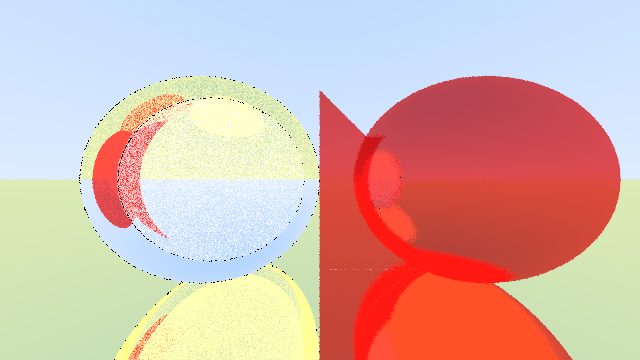
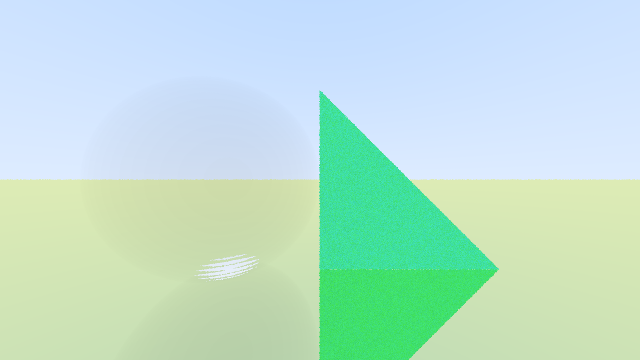
fixed all projects

diff --git a/src/normals.cpp b/src/normals.cpp
@@ -1,18 +1,76 @@
-#include <iostream>
 #include "ppm_image.h"
 #include "AGLM.h"
 #include "ray.h"
+#include "material.h"
+#include "hittable_list.h"
+#include "sphere.h"
+#include "camera.h"
 
 using namespace glm;
 using namespace agl;
-using namespace std;
 
-color ray_color(const ray& ray)
+color ray_color(const ray& r, const hittable_list& world, int depth)
 {
-   return color(0);
+    hit_record rec;
+
+    if (world.hit(r, 0.001f, infinity, rec))
+    {
+        return glm::max(vec3(0), rec.normal);
+    }
+    vec3 unit_direction = normalize(r.direction());
+    auto t = 0.5f * (unit_direction.y + 1.0f);
+    return (1.0f - t) * color(1, 1, 1) + t * color(0.5f, 0.7f, 1.0f);
+}
+
+color normalize_color(const color& c, int samples_per_pixel)
+{
+    // todo: implement me!
+    float scale = 1.0f / samples_per_pixel;
+    float r = std::min(0.999f, std::max(0.0f, c.r * scale));
+    float g = std::min(0.999f, std::max(0.0f, c.g * scale));
+    float b = std::min(0.999f, std::max(0.0f, c.b * scale));
+
+    // apply gamma correction 
+    r = sqrt(r);
+    g = sqrt(g);
+    b = sqrt(b);
+
+    return color(r, g, b);
 }
 
 void ray_trace(ppm_image& image)
 {
-   image.save("normals.png");
+    // Image
+    int height = image.height();
+    int width = image.width();
+    float aspect = (float)width / (float)height;
+
+    // Camera
+    vec3 camera_pos(0);
+    float viewport_height = 2.0f;
+    float focal_length = 1.0;
+    camera cam(camera_pos, viewport_height, aspect, focal_length);
+
+    shared_ptr<material> matte_test = make_shared<matte>(glm::vec3(.1, 1, .5));
+
+    hittable_list world;
+    world.add(make_shared<sphere>(point3(0, 0, -1), 0.5f, matte_test));
+
+    glm::vec3 c1(.9, .9, 1);
+    glm::vec3 c2(.4, .4, 1);
+
+    // Ray trace
+    for (int j = 0; j < height; j++)
+    {
+        for (int i = 0; i < width; i++)
+        {
+            float u = float(i + random_float()) / (width - 1);
+            float v = float(height - j - 1 - random_float()) / (height - 1);
+            ray r = cam.get_ray(u, v);
+            color c = ray_color(r, world, 1);
+            image.set_vec3(j, i, c);
+        }
+    }
+
+    image.save("silhouette.ppm");
 }

diff --git a/src/silhouette.cpp b/src/silhouette.cpp
@@ -1,16 +1,76 @@
 #include "ppm_image.h"
 #include "AGLM.h"
 #include "ray.h"
+#include "material.h"
+#include "hittable_list.h"
+#include "sphere.h"
+#include "camera.h"
 
 using namespace glm;
 using namespace agl;
 
-color ray_color(const ray& ray)
+color ray_color(const ray& r, const hittable_list& world, int depth)
 {
-   return color(0); 
+    hit_record rec;
+
+    if (world.hit(r, 0.001f, infinity, rec))
+    {
+        return color(1, 0, 0);
+    }
+    vec3 unit_direction = normalize(r.direction());
+    auto t = 0.5f * (unit_direction.y + 1.0f);
+    return (1.0f - t) * color(1, 1, 1) + t * color(0.5f, 0.7f, 1.0f);
+}
+
+color normalize_color(const color& c, int samples_per_pixel)
+{
+    // todo: implement me!
+    float scale = 1.0f / samples_per_pixel;
+    float r = std::min(0.999f, std::max(0.0f, c.r * scale));
+    float g = std::min(0.999f, std::max(0.0f, c.g * scale));
+    float b = std::min(0.999f, std::max(0.0f, c.b * scale));
+
+    // apply gamma correction 
+    r = sqrt(r);
+    g = sqrt(g);
+    b = sqrt(b);
+
+    return color(r, g, b);
 }
 
 void ray_trace(ppm_image& image)
 {
-   image.save("silhouette.ppm");
+    // Image
+    int height = image.height();
+    int width = image.width();
+    float aspect = (float)width / (float)height;
+
+    // Camera
+    vec3 camera_pos(0);
+    float viewport_height = 2.0f;
+    float focal_length = 1.0;
+    camera cam(camera_pos, viewport_height, aspect, focal_length);
+
+    shared_ptr<material> matte_test = make_shared<matte>(glm::vec3(.1, 1, .5));
+
+    hittable_list world;
+    world.add(make_shared<sphere>(point3(0, 0, -1), 0.5f, matte_test));
+
+    glm::vec3 c1(.9, .9, 1);
+    glm::vec3 c2(.4, .4, 1);
+
+    // Ray trace
+    for (int j = 0; j < height; j++)
+    {
+        for (int i = 0; i < width; i++)
+        {
+            float u = float(i + random_float()) / (width - 1);
+            float v = float(height - j - 1 - random_float()) / (height - 1);
+            ray r = cam.get_ray(u, v);
+            color c = ray_color(r, world, 1);
+            image.set_vec3(j, i, c);
+        }
+    }
+
+    image.save("silhouette.ppm");
 }

diff --git a/src/sphere.cpp b/src/sphere.cpp
@@ -3,33 +3,30 @@
 bool sphere::hit(const ray& r, hit_record& rec) const 
 {
     glm::vec3 r_orig = r.origin();
-    if (near_zero(glm::length(r.origin() - center) - radius))
-    {
-        r_orig  = r_orig + glm::normalize(r.origin() - center) * .1f;
-    }
-    //float len = glm::length(r.direction());
-    //glm::vec3 d = r.direction() / len;
-    //glm::vec3 el = center - r_orig;
-    //float s = glm::dot(el, d);
-    //float elSqr = glm::dot(el, el);
-    //float rSqr = radius * radius;
-    //float mSqr = elSqr - s * s;
-    //float q = sqrt(rSqr - mSqr);
-    //float t;
-    //if (s < 0 && elSqr > rSqr) t = -1;
-    //else if (mSqr > rSqr) t = -1;
-    //else if (elSqr > rSqr) t = (s - q) / len;
-    //else t = (s + q) / len;
 
-    glm::vec3 oc = r_orig - center;
-    float a = glm::dot(r.direction(), r.direction());
-    float half_b = glm::dot(oc, r.direction());
-    float c = glm::length2(oc) - radius * radius;
-    float discriminant = half_b * half_b - a * c;
-    if (discriminant < 0) return false;
-    float sqrtd = sqrt(discriminant);
-    float t = (-half_b - sqrtd) / a;
-    if (t < 0) t = (-half_b + sqrtd) / a;
+    float len = glm::length(r.direction());
+    glm::vec3 d = r.direction() / len;
+    glm::vec3 el = center - r_orig;
+    float s = glm::dot(el, d);
+    float elSqr = glm::dot(el, el);
+    float rSqr = radius * radius;
+    float mSqr = elSqr - s * s;
+    float q = sqrt(rSqr - mSqr);
+    float t;
+    if (s < 0 && elSqr > rSqr) t = -1;
+    else if (mSqr > rSqr) t = -1;
+    else if (elSqr > rSqr) t = (s - q) / len;
+    else t = (s + q) / len;
+
+    //glm::vec3 oc = r_orig - center;
+    //float a = glm::dot(r.direction(), r.direction());
+    //float half_b = glm::dot(oc, r.direction());
+    //float c = glm::length2(oc) - radius * radius;
+    //float discriminant = half_b * half_b - a * c;
+    //if (discriminant < 0) return false;
+    //float sqrtd = sqrt(discriminant);
+    //float t = (-half_b - sqrtd) / a;
+    //if (t < 0) t = (-half_b + sqrtd) / a;
     if (t < 0) return false;
 
     // save relevant data in hit record

diff --git a/src/material.cpp b/src/material.cpp
@@ -90,28 +90,29 @@ bool smoke::scatter(const ray& r_in, const hit_record& rec, glm::color& attenuat
 {
     float len = glm::length(r_in.direction());
     glm::vec3 r_dir = r_in.direction() / len;
-    glm::vec3 fuzz_vec = random_hemisphere(r_dir) * 1.0f;
-    glm::vec3 dir = glm::normalize(r_dir);
+    float a = glm::length(glm::cross(rec.normal, r_dir));
     if (rec.front_face)
     {
         attenuation = glm::vec3(1);
-        scattered.orig = rec.p;
+        scattered.orig = rec.p + r_dir * 0.0001f;
         scattered.dir = r_dir;
     }
     else
     {
-        //if (glm::length(r_in.direction() * rec.t) < .5f)
-        //{
-        //    attenuation = color;
-        //    scattered.orig = rec.p;
-        //    scattered.dir = r_dir;
-        //}
-        //else
-        //{
-        //}
-        attenuation = glm::vec3(0);
-        scattered.orig = rec.p;
-        scattered.dir = r_in.direction();
+        if (glm::length(r_in.direction() * rec.t) < .01f)
+        {
+            attenuation = glm::vec3(1);
+            scattered.orig = rec.p;
+            scattered.dir = r_dir;
+        }
+        else
+        {
+            glm::vec3 fuzz_vec = random_hemisphere(r_dir) * .10f;
+            glm::vec3 dir = glm::normalize(r_dir);
+            attenuation = color;
+            scattered.orig = r_in.origin() + dir * .08f;
+            scattered.dir = dir;
+        }
     }
     return true;
 }

diff --git a/src/basic.cpp b/src/basic.cpp
@@ -62,7 +62,7 @@ void ray_trace(ppm_image& image)
    int width = image.width();
    float aspect = width / float(height);
    int samples_per_pixel = 3; // higher => more anti-aliasing
-   int max_depth = 3; // higher => less shadow acne
+   int max_depth = 20; // higher => less shadow acne
 
    // World
    shared_ptr<material> gray = make_shared<lambertian>(color(0.5f));
@@ -79,16 +79,16 @@ void ray_trace(ppm_image& image)
 
    shared_ptr<material> metal_test = make_shared<metal>(glm::vec3(1, .1, .1), 0.1);
    shared_ptr<dielectric> glass_test = make_shared<dielectric>(0.9995);
-   shared_ptr<smoke> smoke_test = make_shared<smoke>(glm::vec3(.5));
+   shared_ptr<smoke> smoke_test = make_shared<smoke>(glm::vec3(.99));
 
    hittable_list world;
-   world.add(make_shared<sphere>(point3(.7, 0, -1), 0.5f, metal_test));
-   world.add(make_shared<sphere>(point3(-.5, 0, -1), 0.5f, glass_test));
+   //world.add(make_shared<sphere>(point3(.7, 0, -1), 0.5f, metal_test));
+   world.add(make_shared<sphere>(point3(-.5, 0, -1), 0.5f, smoke_test));
    world.add(make_shared<triangle>(
-       glm::vec3(1,  -0.5, -1),
        glm::vec3(0, -0.5,  -1),
+       glm::vec3(1,  -0.5, -1),
        glm::vec3(0,   0.5, -1),
-       metal_test));
+       matte_test));
    //world.add(make_shared<triangle>(
        //glm::vec3(-10, -.5, 0),
        //glm::vec3(10,  -.5, 0),

diff --git a/src/gradient.cpp b/src/gradient.cpp
@@ -16,12 +16,19 @@ void ray_trace(ppm_image& image)
 {
    int height = image.height();
    int width = image.width();
+   glm::vec3 c1(.9, .9, 1);
+   glm::vec3 c2(.4, .4, 1);
 
    for (int i = 0; i < height; i++)
    {
 	   for (int j = 0; j < width; j++)
 	   {
-			
+		   ppm_pixel p = {
+			   unsigned char(((float)i * -(c2.x - c1.x) / (float)height + c2.x) * 255.0f),
+			   unsigned char(((float)i * -(c2.y - c1.y) / (float)height + c2.y) * 255.0f),
+			   unsigned char(((float)i * -(c2.z - c1.z) / (float)height + c2.z) * 255.0f)
+		   };
+		   image.set(i, j, p);
 	   }
    }
 

diff --git a/src/intesection_tests.cpp b/src/intesection_tests.cpp
@@ -33,7 +33,7 @@ void check(bool val, const std::string& message, const hit_record& hit, const ra
       cout << hit.str() << endl;
       cout << ray.str() << endl;
    }
-   assert(val);
+   //assert(val);
 }
 
 void test_sphere(const sphere& s, const ray& r, bool hits, const hit_record& desired) {
